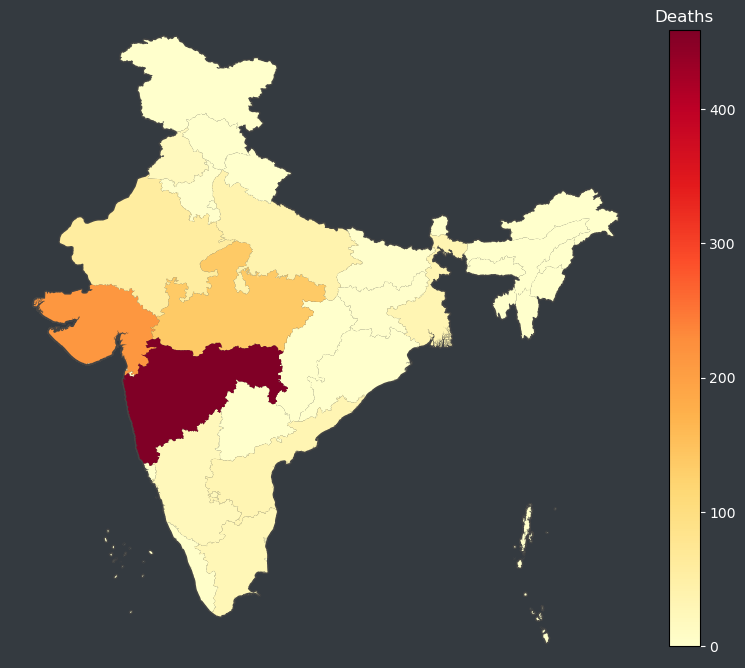
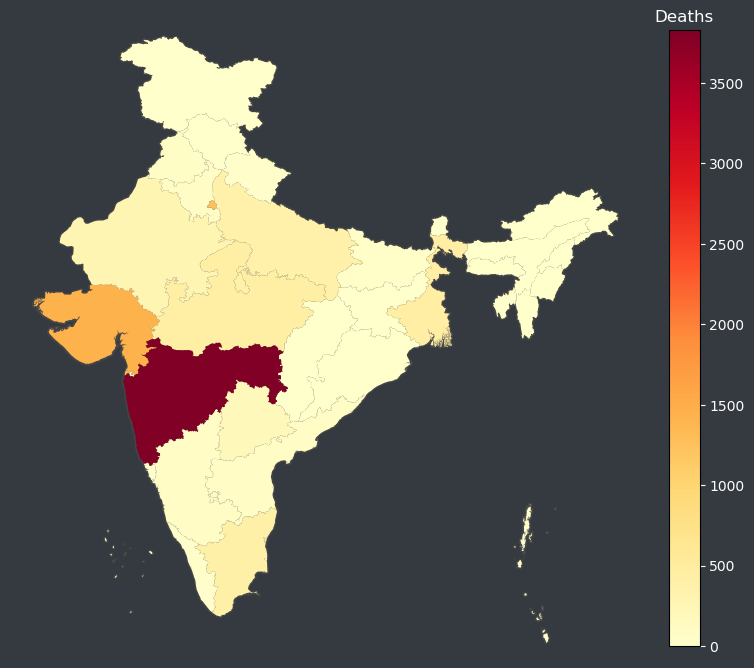
make it better

diff --git a/templates/index.html b/templates/index.html
@@ -62,11 +62,11 @@
        <div class="row">
          <div class="col confirmed">
            <h1>Confirmed</h1>
-           <h2>{{data[5]}}</h2>
+           <h2>{{data[5]+data[6]+data[7]}}</h2>
          </div>
          <div class="col active">
            <h1>Active Cases</h1>
-           <h2>{{data[5]-data[6]-data[7]}}</h2>
+           <h2>{{data[5]}}</h2>
          </div>
          <div class="col cured">
            <h1>Cured</h1>
@@ -83,7 +83,7 @@
     <section id="graphs">
 
       <div id="graph">
-
+        <p>Select states to visualize the data.</p>
 
       </div>
       <script type="text/javascript">
@@ -148,7 +148,7 @@
     </button>
     <div class="dropdown-menu">
       {% for i in range(data[0]|length): %}
-      <button class="dropdown-item" href="#" onclick="myNewFunction({'nm':'{{data[1][i]}}','active':{{data[2][i]-data[3][i]-data[4][i]}},'cured':{{data[3][i]}},'dead':{{data[4][i]}}});">{{data[1][i]}}</button>
+      <button class="dropdown-item" href="#" onclick="myNewFunction({'nm':'{{data[1][i]}}','active':{{data[2][i]}},'cured':{{data[3][i]}},'dead':{{data[4][i]}}});">{{data[1][i]}}</button>
       {%endfor%}
   </div>
     </section>
@@ -170,7 +170,7 @@
          <tr>
            <td>{{data[0][i]}}</td>
            <td>{{data[1][i]}}</td>
-           <td>{{data[2][i]-data[3][i]}}</td>
+           <td>{{data[2][i]}}</td>
            <td>{{data[3][i]}}</td>
            <td>{{data[4][i]}}</td>
          </tr>

diff --git a/static/style.css b/static/style.css
@@ -92,3 +92,7 @@ tr:hover{
   background-color: #fff;
   color: #fff;
 }
+
+p{
+  color: #c3c3c3;
+}

diff --git a/app.py b/app.py
@@ -10,6 +10,9 @@ from matplotlib.collections import PatchCollection
 from matplotlib.colors import Normalize
 import matplotlib.cm
 import pandas as pd
+import bs4 as bs
+import urllib.request
+import pandas as pd
 def scrape(url):
     list=[[],[],[],[],[]]
     l=[]
@@ -19,17 +22,20 @@ def scrape(url):
     sauce =str(k)
     soup=bs.BeautifulSoup(sauce,features='lxml')
     k=soup.find_all('tr')
+    c=0
     for i in k:
         l=[]
         sauce =str(i)
         soup=bs.BeautifulSoup(sauce,features='lxml')
         k1=soup.find_all('td')
-        if len(k1)==5:
+        if len(k1)==6 and c<=34:
+            c=c+1
             for n in range(5):
                 l.append(k1[n].text)
             for p in range(5):
                 list[p].append(l[p])
     return list
+
 a=scrape('https://www.mohfw.gov.in/')
 
 def convert(x):
@@ -51,8 +57,8 @@ a[3]=list(data)
 data=map(convert,a[4])
 a[4]=list(data)
 data=pd.DataFrame({'area':a[1],'count':a[2],'cured':a[3],'deaths':a[4]})
-data.loc['area',0]='Andaman & Nicobar Island'
-data.loc['area',7]='NCT of Delhi'
+data.loc[0,'area']='Andaman & Nicobar Island'
+data.loc[8,'area']='NCT of Delhi'
 
 
 
